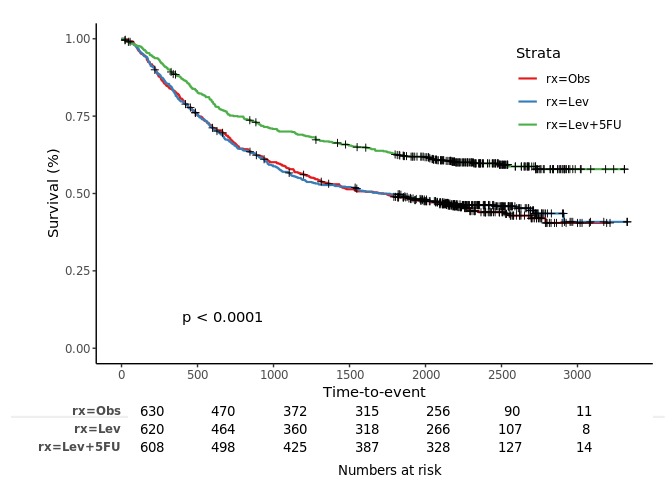
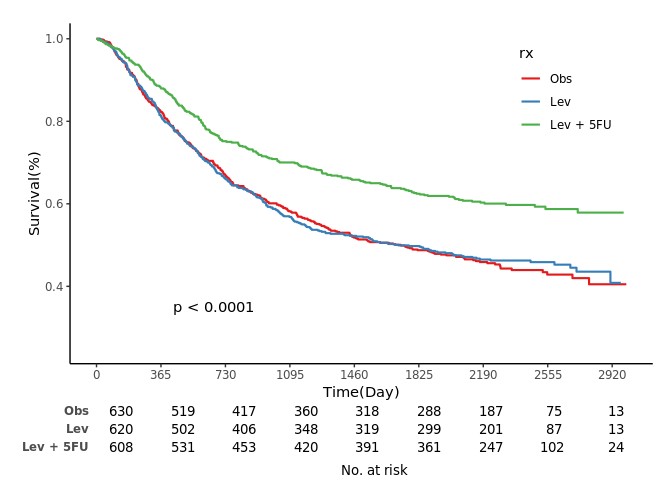
0.2.5

diff --git a/docs/reference/jskm.html b/docs/reference/jskm.html
@@ -69,7 +69,7 @@
       </button>
       <span class="navbar-brand">
         <a class="navbar-link" href="../index.html">jskm</a>
-        <span class="version label label-danger" data-toggle="tooltip" data-placement="bottom" title="Unreleased version">0.2.4</span>
+        <span class="version label label-danger" data-toggle="tooltip" data-placement="bottom" title="Unreleased version">0.2.5</span>
       </span>
     </div>
 
@@ -130,9 +130,10 @@
   <span class='fl'>1</span>), <span class='kw'>ystratalabs</span> <span class='kw'>=</span> <span class='fu'><a href='https://www.rdocumentation.org/packages/base/topics/names'>names</a></span>(<span class='no'>sfit</span>$<span class='no'>strata</span>), <span class='kw'>ystrataname</span> <span class='kw'>=</span> <span class='st'>"Strata"</span>,
   <span class='kw'>timeby</span> <span class='kw'>=</span> <span class='fu'><a href='https://www.rdocumentation.org/packages/base/topics/Round'>signif</a></span>(<span class='fu'><a href='https://www.rdocumentation.org/packages/base/topics/Extremes'>max</a></span>(<span class='no'>sfit</span>$<span class='no'>time</span>)/<span class='fl'>7</span>, <span class='fl'>1</span>), <span class='kw'>main</span> <span class='kw'>=</span> <span class='st'>""</span>, <span class='kw'>pval</span> <span class='kw'>=</span> <span class='fl'>FALSE</span>,
   <span class='kw'>marks</span> <span class='kw'>=</span> <span class='fl'>TRUE</span>, <span class='kw'>shape</span> <span class='kw'>=</span> <span class='fl'>3</span>, <span class='kw'>legend</span> <span class='kw'>=</span> <span class='fl'>TRUE</span>, <span class='kw'>legendposition</span> <span class='kw'>=</span> <span class='fu'><a href='https://www.rdocumentation.org/packages/base/topics/c'>c</a></span>(<span class='fl'>0.85</span>,
-  <span class='fl'>0.8</span>), <span class='kw'>ci</span> <span class='kw'>=</span> <span class='fl'>FALSE</span>, <span class='kw'>subs</span> <span class='kw'>=</span> <span class='kw'>NULL</span>, <span class='kw'>linecols</span> <span class='kw'>=</span> <span class='st'>"Set1"</span>, <span class='kw'>dashed</span> <span class='kw'>=</span> <span class='fl'>FALSE</span>,
-  <span class='kw'>cumhaz</span> <span class='kw'>=</span> <span class='no'>F</span>, <span class='kw'>cluster.option</span> <span class='kw'>=</span> <span class='fu'><a href='https://www.rdocumentation.org/packages/base/topics/c'>c</a></span>(<span class='st'>"None"</span>, <span class='st'>"cluster"</span>, <span class='st'>"frailty"</span>),
-  <span class='kw'>cluster.var</span> <span class='kw'>=</span> <span class='kw'>NULL</span>, <span class='kw'>data</span> <span class='kw'>=</span> <span class='kw'>NULL</span>, <span class='no'>...</span>)</pre>
+  <span class='fl'>0.8</span>), <span class='kw'>ci</span> <span class='kw'>=</span> <span class='fl'>FALSE</span>, <span class='kw'>subs</span> <span class='kw'>=</span> <span class='kw'>NULL</span>, <span class='kw'>label.nrisk</span> <span class='kw'>=</span> <span class='st'>"Numbers at risk"</span>,
+  <span class='kw'>linecols</span> <span class='kw'>=</span> <span class='st'>"Set1"</span>, <span class='kw'>dashed</span> <span class='kw'>=</span> <span class='fl'>FALSE</span>, <span class='kw'>cumhaz</span> <span class='kw'>=</span> <span class='no'>F</span>,
+  <span class='kw'>cluster.option</span> <span class='kw'>=</span> <span class='fu'><a href='https://www.rdocumentation.org/packages/base/topics/c'>c</a></span>(<span class='st'>"None"</span>, <span class='st'>"cluster"</span>, <span class='st'>"frailty"</span>), <span class='kw'>cluster.var</span> <span class='kw'>=</span> <span class='kw'>NULL</span>,
+  <span class='kw'>data</span> <span class='kw'>=</span> <span class='kw'>NULL</span>, <span class='no'>...</span>)</pre>
     
     <h2 class="hasAnchor" id="arguments"><a class="anchor" href="#arguments"></a>Arguments</h2>
     <table class="ref-arguments">
@@ -204,6 +205,10 @@
     <tr>
       <th>subs</th>
       <td><p>= NULL,</p></td>
+    </tr>
+    <tr>
+      <th>label.nrisk</th>
+      <td><p>numbers at risk label. Default = "Numbers at risk"</p></td>
     </tr>
     <tr>
       <th>linecols</th>

diff --git a/docs/index.html b/docs/index.html
@@ -32,7 +32,7 @@
       </button>
       <span class="navbar-brand">
         <a class="navbar-link" href="index.html">jskm</a>
-        <span class="version label label-danger" data-toggle="tooltip" data-placement="bottom" title="Unreleased version">0.2.4</span>
+        <span class="version label label-danger" data-toggle="tooltip" data-placement="bottom" title="Unreleased version">0.2.5</span>
       </span>
     </div>
 
@@ -103,7 +103,8 @@
 <a class="sourceLine" id="cb2-6" data-line-number="6"><span class="co">#Plot the data</span></a>
 <a class="sourceLine" id="cb2-7" data-line-number="7"><span class="kw"><a href="reference/jskm.html">jskm</a></span>(fit)</a></code></pre></div>
 <p><img src="index_files/figure-html/unnamed-chunk-1-1.png" width="700"></p>
-<div class="sourceCode" id="cb3"><pre class="sourceCode r"><code class="sourceCode r"><a class="sourceLine" id="cb3-1" data-line-number="1"><span class="kw"><a href="reference/jskm.html">jskm</a></span>(fit, <span class="dt">table =</span> T, <span class="dt">pval =</span> T)</a></code></pre></div>
+<div class="sourceCode" id="cb3"><pre class="sourceCode r"><code class="sourceCode r"><a class="sourceLine" id="cb3-1" data-line-number="1"><span class="kw"><a href="reference/jskm.html">jskm</a></span>(fit, <span class="dt">table =</span> T, <span class="dt">pval =</span> T, <span class="dt">label.nrisk =</span> <span class="st">"No. at risk"</span>, <span class="dt">timeby =</span> <span class="dv">365</span>, <span class="dt">xlabs =</span> <span class="st">"Time(Day)"</span>, <span class="dt">ylabs =</span> <span class="st">"Survival(%)"</span>, <span class="dt">marks =</span> F, <span class="dt">xlims =</span> <span class="kw"><a href="https://www.rdocumentation.org/packages/base/topics/c">c</a></span>(<span class="dv">0</span>, <span class="dv">3000</span>), <span class="dt">ylims =</span> <span class="kw"><a href="https://www.rdocumentation.org/packages/base/topics/c">c</a></span>(<span class="fl">0.25</span>, <span class="dv">1</span>),</a>
+<a class="sourceLine" id="cb3-2" data-line-number="2">     <span class="dt">ystratalabs =</span> <span class="kw"><a href="https://www.rdocumentation.org/packages/base/topics/c">c</a></span>(<span class="st">"Obs"</span>, <span class="st">"Lev"</span>, <span class="st">"Lev + 5FU"</span>), <span class="dt">ystrataname =</span> <span class="st">"rx"</span>)</a></code></pre></div>
 <p><img src="index_files/figure-html/unnamed-chunk-1-2.png" width="700"></p>
 </div>
 <div id="cumulative-hazard-1--survival-probability" class="section level3">

diff --git a/docs/news/index.html b/docs/news/index.html
@@ -66,7 +66,7 @@
       </button>
       <span class="navbar-brand">
         <a class="navbar-link" href="../index.html">jskm</a>
-        <span class="version label label-danger" data-toggle="tooltip" data-placement="bottom" title="Unreleased version">0.2.4</span>
+        <span class="version label label-danger" data-toggle="tooltip" data-placement="bottom" title="Unreleased version">0.2.5</span>
       </span>
     </div>
 
@@ -115,12 +115,32 @@
       <small>Source: <a href='https://github.com/jinseob2kim/jskm/blob/master/NEWS.md'><code>NEWS.md</code></a></small>
     </div>
 
-    <div id="jskm-0-2-4" class="section level1">
+    <div id="jskm-0-2-5" class="section level1">
 <h1 class="page-header">
-<a href="#jskm-0-2-4" class="anchor"></a>jskm 0.2.4</h1>
+<a href="#jskm-0-2-5" class="anchor"></a>jskm 0.2.5</h1>
+<div id="bug-fixes" class="section level2">
+<h2 class="hasAnchor">
+<a href="#bug-fixes" class="anchor"></a>Bug fixes</h2>
+<ul>
+<li><p>Remove grey rectangle above the <code>Number at risk</code> table.</p></li>
+<li><p><strong>p-value</strong> position according <code>ylims</code> option.</p></li>
+</ul>
+</div>
 <div id="update" class="section level2">
 <h2 class="hasAnchor">
 <a href="#update" class="anchor"></a>Update</h2>
+<ul>
+<li>Add <strong>Numbers at risk</strong> label option: <code>label.nrisk</code>
+</li>
+</ul>
+</div>
+</div>
+    <div id="jskm-0-2-4" class="section level1">
+<h1 class="page-header">
+<a href="#jskm-0-2-4" class="anchor"></a>jskm 0.2.4</h1>
+<div id="update-1" class="section level2">
+<h2 class="hasAnchor">
+<a href="#update-1" class="anchor"></a>Update</h2>
 <ul>
 <li><p>Add <strong>ci</strong> option to <code>svyjskm</code>.</p></li>
 <li><p>Get <strong>p-value</strong> without <strong>design</strong> option in <code>svyjskm</code></p></li>
@@ -169,6 +189,7 @@
     <div id="tocnav">
       <h2>Contents</h2>
       <ul class="nav nav-pills nav-stacked">
+        <li><a href="#jskm-0-2-5">0.2.5</a></li>
         <li><a href="#jskm-0-2-4">0.2.4</a></li>
         <li><a href="#jskm-0-2-2">0.2.2</a></li>
         <li><a href="#jskm-0-2-1">0.2.1</a></li>

diff --git a/docs/reference/index.html b/docs/reference/index.html
@@ -66,7 +66,7 @@
       </button>
       <span class="navbar-brand">
         <a class="navbar-link" href="../index.html">jskm</a>
-        <span class="version label label-danger" data-toggle="tooltip" data-placement="bottom" title="Unreleased version">0.2.4</span>
+        <span class="version label label-danger" data-toggle="tooltip" data-placement="bottom" title="Unreleased version">0.2.5</span>
       </span>
     </div>
 

diff --git a/docs/reference/svyjskm.html b/docs/reference/svyjskm.html
@@ -69,7 +69,7 @@
       </button>
       <span class="navbar-brand">
         <a class="navbar-link" href="../index.html">jskm</a>
-        <span class="version label label-danger" data-toggle="tooltip" data-placement="bottom" title="Unreleased version">0.2.4</span>
+        <span class="version label label-danger" data-toggle="tooltip" data-placement="bottom" title="Unreleased version">0.2.5</span>
       </span>
     </div>
 

diff --git a/docs/LICENSE-text.html b/docs/LICENSE-text.html
@@ -66,7 +66,7 @@
       </button>
       <span class="navbar-brand">
         <a class="navbar-link" href="index.html">jskm</a>
-        <span class="version label label-danger" data-toggle="tooltip" data-placement="bottom" title="Unreleased version">0.2.4</span>
+        <span class="version label label-danger" data-toggle="tooltip" data-placement="bottom" title="Unreleased version">0.2.5</span>
       </span>
     </div>
 

diff --git a/docs/authors.html b/docs/authors.html
@@ -66,7 +66,7 @@
       </button>
       <span class="navbar-brand">
         <a class="navbar-link" href="index.html">jskm</a>
-        <span class="version label label-danger" data-toggle="tooltip" data-placement="bottom" title="Unreleased version">0.2.4</span>
+        <span class="version label label-danger" data-toggle="tooltip" data-placement="bottom" title="Unreleased version">0.2.5</span>
       </span>
     </div>
 

diff --git a/README.md b/README.md
@@ -46,7 +46,8 @@ jskm(fit)
 ![](README_files/figure-gfm/unnamed-chunk-1-1.png)<!-- -->
 
 ``` r
-jskm(fit, table = T, pval = T)
+jskm(fit, table = T, pval = T, label.nrisk = "No. at risk", timeby = 365, xlabs = "Time(Day)", ylabs = "Survival(%)", marks = F, xlims = c(0, 3000), ylims = c(0.25, 1),
+     ystratalabs = c("Obs", "Lev", "Lev + 5FU"), ystrataname = "rx")
 ```
 
 ![](README_files/figure-gfm/unnamed-chunk-1-2.png)<!-- -->

diff --git a/NEWS.md b/NEWS.md
@@ -1,3 +1,15 @@
+# jskm 0.2.5
+
+## Bug fixes
+
+* Remove grey rectangle above the `Number at risk` table.
+
+* **p-value** position according `ylims` option.
+
+## Update
+
+* Add **Numbers at risk** label option: `label.nrisk`
+
 # jskm 0.2.4
 
 ## Update
